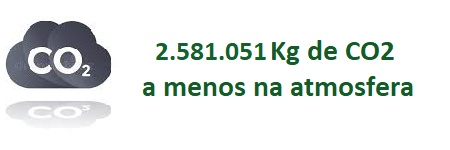
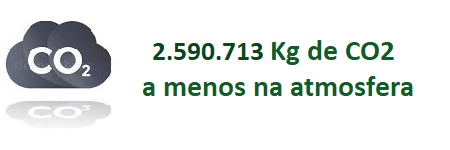
Revisão novos relatórios

Changed region(s): [[0.3422, 0.2667, 0.5911, 0.4]]

diff --git a/frontend/src/components/DataTable/index.tsx b/frontend/src/components/DataTable/index.tsx
@@ -19,7 +19,7 @@ const DataTable = () => {
                         <td>106</td>
                         <td>264</td>
                         <td>12.075,747</td>
-                        <td>24.430,722</td>
+                        <td>25.184,030</td>
                     </tr>
                     <tr>
                         <td>Ecobras</td>
@@ -43,7 +43,7 @@ const DataTable = () => {
                         <td>29</td>
                         <td>18</td>
                         <td>17.369,802</td>
-                        <td>2.169,308</td>
+                        <td>3.271,440</td>
                     </tr>
                     <tr>
                         <td>EcoTI - SE</td>
@@ -51,7 +51,7 @@ const DataTable = () => {
                         <td>119</td>
                         <td>33</td>
                         <td>29.908,353</td>
-                        <td>24.711,810</td>
+                        <td>25.500,530</td>
                     </tr>
                     <tr>
                         <td>Natal</td>
@@ -59,7 +59,7 @@ const DataTable = () => {
                         <td>1.189</td>
                         <td>209</td>
                         <td>88.196,510</td>
-                        <td>701.931,491</td>
+                        <td>703.253,451</td>
                     </tr>
                     <tr>
                         <td>Reciclo</td>
@@ -67,7 +67,7 @@ const DataTable = () => {
                         <td>1.042</td>
                         <td>639</td>
                         <td>73.954,027</td>
-                        <td>1.068.458,899</td>
+                        <td>1.071,345,443</td>
                     </tr>
                     <tr>
                         <td>Reeecicle</td>
@@ -83,7 +83,7 @@ const DataTable = () => {
                         <td>202</td>
                         <td>4</td>
                         <td>12.866,691</td>
-                        <td>555,210</td>
+                        <td>555,250</td>
                     </tr>
                     <tr>
                         <td>WEEE</td>
@@ -99,7 +99,7 @@ const DataTable = () => {
                         <td>214</td>
                         <td>20</td>
                         <td>30.997,927</td>
-                        <td>17.175,910</td>
+                        <td>17.224,454</td>
                     </tr>
                     <tr>
                         <td> </td>
@@ -115,7 +115,7 @@ const DataTable = () => {
                         <th>3.089</th>
                         <th>1.197</th>
                         <th>350.272,510</th>
-                        <th>1.843.608,290</th>
+                        <th>1.850.509,498</th>
                     </tr>
                 </thead>
                 <tbody>

diff --git a/frontend/src/components/DonutChart/index.tsx b/frontend/src/components/DonutChart/index.tsx
@@ -3,7 +3,7 @@ import Chart from 'react-apexcharts';
 const DonutChart = () => {
 
     const mockData = {
-        series: [24.431, 3.991, 0, 2.169, 24.712, 701.931, 1068.459, 0.184, 0.555, 0, 17.176],
+        series: [25.184, 3.991, 0, 3.271, 25.501, 703.253, 1071.345, 0.184, 0.555, 0, 17.224],
         labels: ['Codel', 'Ecobras', 'Ecodescarte', 'EcoTI - BA', 'EcoTI - SE', 'Natal', 'Reciclo', 'Reeecicle', 'Sete Ambiental', 'WEEE', 'Zero Impacto']
     }
     

diff --git a/frontend/src/components/BarRecbMensal/index.tsx b/frontend/src/components/BarRecbMensal/index.tsx
@@ -21,7 +21,7 @@ const BarRecbMensal = () => {
         series: [
             {
                 name: "Kg Recebidos",
-                data: [102387, 106589,	121879, 137705, 186442, 187583, 171701, 160630, 229986, 179618, 227566, 230076]                  
+                data: [108468, 113628,	123526, 138370, 186067, 187866, 219556, 162479, 257534, 204908, 255846, 235632]                  
             }
         ]
     };

diff --git a/frontend/src/components/BarReciclMensal/index.tsx b/frontend/src/components/BarReciclMensal/index.tsx
@@ -21,7 +21,7 @@ const BarReciclMensal = () => {
         series: [
             {
                 name: "Kg Reciclados",
-                data: [26339, 86612, 92991, 141914, 165458, 219052, 188713, 194794, 215092, 175890, 176723, 160029]                  
+                data: [26339, 90712, 93643, 142116, 166545, 219788, 189244, 197028, 209382, 176002, 176982, 162728]                  
             }
         ]
     };

diff --git a/frontend/src/components/BarChart/index.tsx b/frontend/src/components/BarChart/index.tsx
@@ -17,7 +17,7 @@ const BarChart = () => {
         series: [
             {
                 name: "Ton Reciclados",
-                data: [24.431, 3.991, 0, 2.169, 24.712, 701.931, 1068.459, 0.184, 0.555, 0, 17.176]                  
+                data: [25.184, 3.991, 0, 3.271, 25.501, 703.253, 1071.345, 0.184, 0.555, 0, 17.224]                  
             }
         ]
     };
